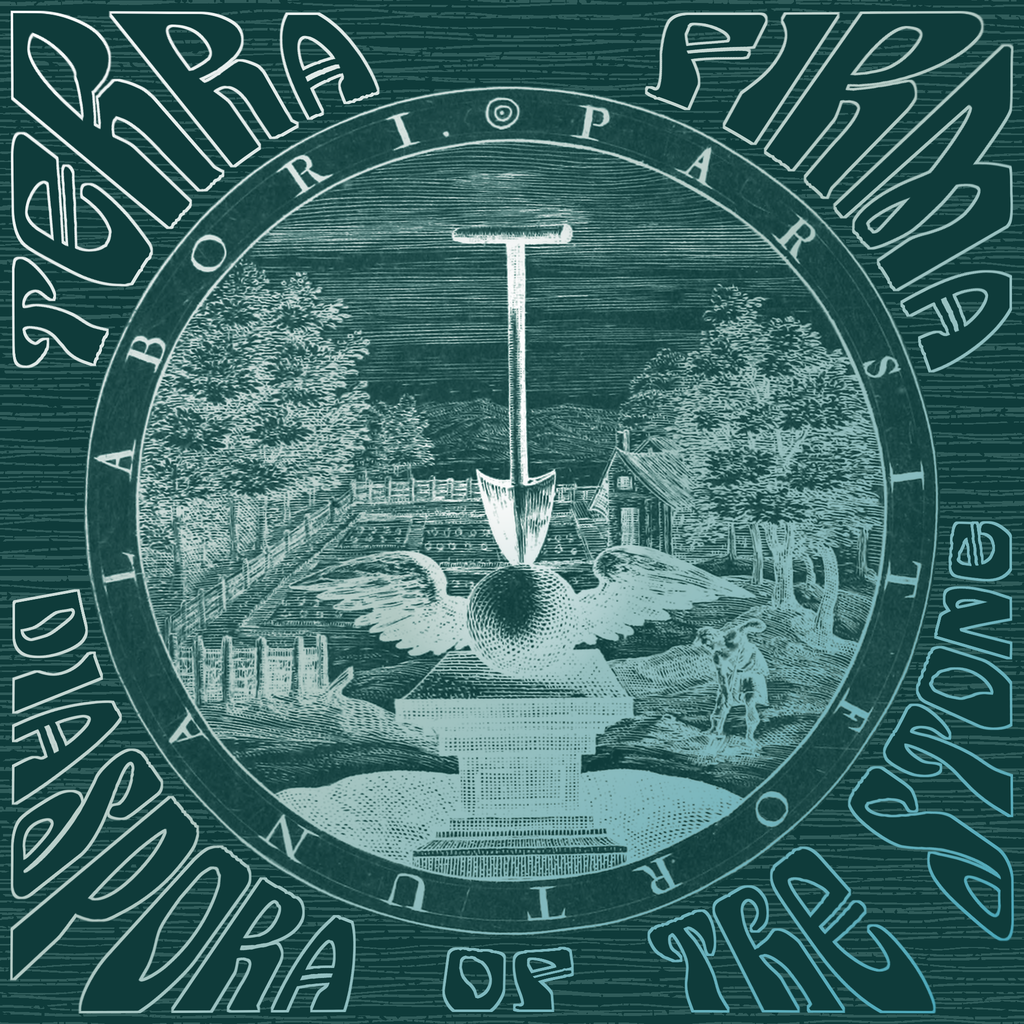
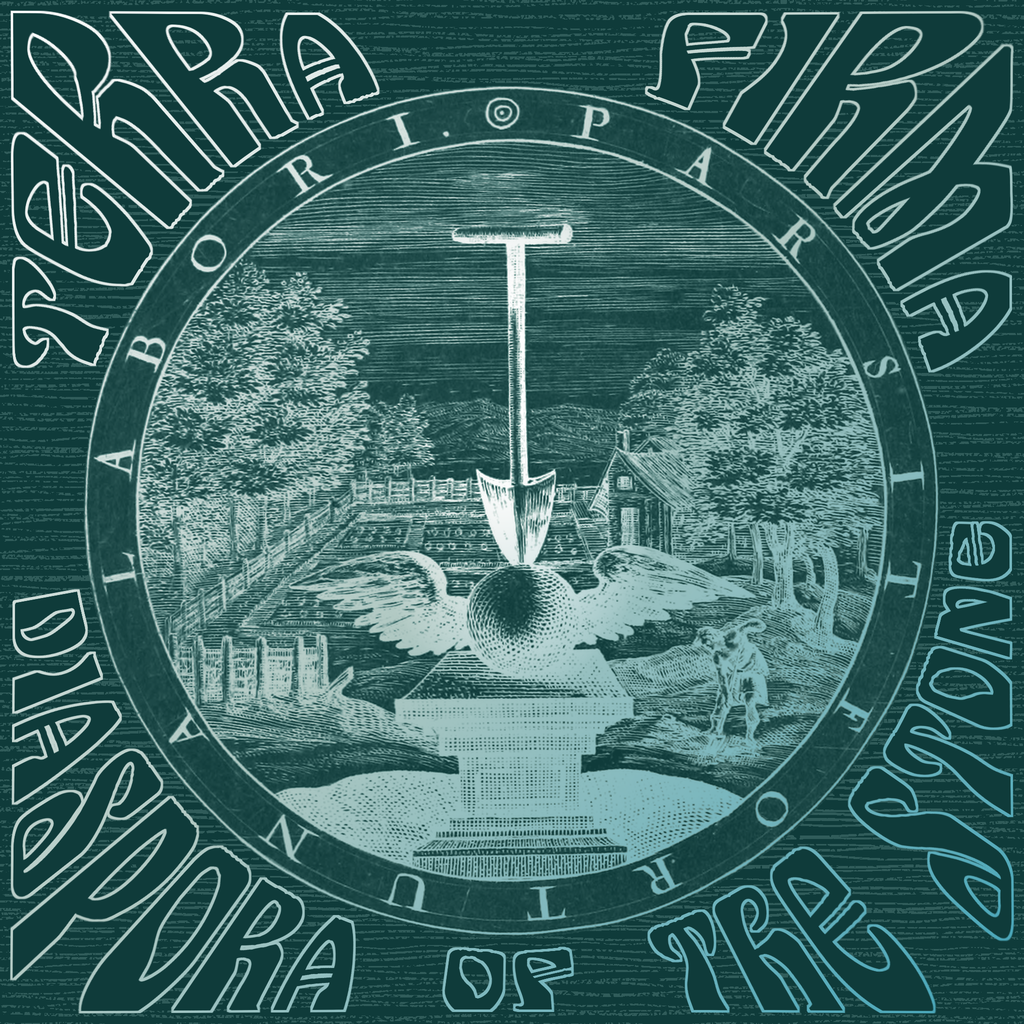
Cover: plate wear on the final, catalogue line from the manifest version
The final preset now runs FIELD_TEX_WEAR at half strength and stamps a
catalogue line ("CL - <version>") on the left edge, in the clear run between
TERRA and DIASPORA; the version is read from TerraFirma/manifest.json at render
time so the cover never goes stale. out/ re-rendered.

Claude-Session: https://claude.ai/code/session_01LP13z2dz12R18hNkC3n4Ta

diff --git a/design/cover/cover.py b/design/cover/cover.py
@@ -63,6 +63,7 @@ LETTER_STEPS=None          # separate band list for the title outlines; None = s
 FIELD_TEXTURE=None         # None, "sky" (the plate's own sky hatching tiled over the field), "hatch" (synthetic engraver's hatch)
 FIELD_TEX_STRENGTH=0.5     # how far the texture lines lift from the field colour toward the mid tone
 FIELD_TEX_IN_LETTERS=True  # texture shows through the hollow letters too
+CATALOGUE=None             # catalogue line on the left edge, e.g. "TF {version}"; {version} is read from TerraFirma/manifest.json at render time
 FIELD_TEX_WEAR=0.0         # plate wear: the field hatch thins and breaks toward the frame edge (0 = off, 1 = heavy)
 SHADOW_MID=None            # shadow pass on the halftone: None, "all" (every hatched midtone goes to SHADOW_MID_COLOUR), "split" (only on the shadow side of the light), "blend" (fades in toward the shadow side)
 SHADOW_MID_COLOUR="c"
@@ -204,6 +205,7 @@ def build():
     o=(N-D*SS)//2; reg=cv[o:o+D*SS,o:o+D*SS]; cv[o:o+D*SS,o:o+D*SS]=reg*(1-sa)+srgb*sa
     A=np.zeros((N,N))
     for w,deg,bi in WORDS: A=np.maximum(A,warp(w,np.radians(deg),np.radians(spans[w]),D*SS/2,bi))
+    global LAST_LETTERS; LAST_LETTERS=Image.fromarray((A*255).astype(np.uint8)).resize((512,512),Image.LANCZOS)
     kk=2*int(round(EDGE_PX*SS))+1
     dil=np.array(Image.fromarray((A*255).astype(np.uint8)).filter(ImageFilter.MaxFilter(kk)),dtype=float)/255; ea=np.clip(dil-A,0,1)
     if EDGE_BREAKS>0:
@@ -235,9 +237,9 @@ PRESETS={
  # FINAL 2026-10-14 (user: "that's the one i want"): continuous ink drift from white at the upper left through grey to
  # shadow cyan at the lower right, running through the seal, the title and the field alike; hand-ruled hatch over the
  # black field; solid black letters with a grey outline; posterised to the base tones plus eight samples of the drift.
- "final":dict(_COMMON,TINT_STEPS=None,FIELD_TEXTURE="hatch_jitter"),
+ "final":dict(_COMMON,TINT_STEPS=None,FIELD_TEXTURE="hatch_jitter",FIELD_TEX_WEAR=0.5,CATALOGUE="CL - {version}"),
  # earlier bookmark: four stepped inks (Y y C c at half strength, shadow ink full), seams stippled, flat black field, hollow letters.
- "bookmark_A1_stipple":dict(_COMMON,TINT_STEPS=[(0.30,"Y",0.5),(0.52,"y",0.5),(0.80,"C",0.5),(1.0,"c",1.0)],SEAM_SOFT=0.12,LETTER_FILL="k",FIELD_TEX_IN_LETTERS=True),
+ "bookmark_A1_stipple":dict(_COMMON,CATALOGUE=None,TINT_STEPS=[(0.30,"Y",0.5),(0.52,"y",0.5),(0.80,"C",0.5),(1.0,"c",1.0)],SEAM_SOFT=0.12,LETTER_FILL="k",FIELD_TEX_IN_LETTERS=True),
 }
 def apply(preset):
     for k,v in PRESETS[preset].items(): globals()[k]=v
@@ -245,9 +247,31 @@ def palette_for(preset):
     y_=hx(Q["y"])
     if TINT_STEPS: return ["k","K",MID]+[y_+(hx(Q[c])-y_)*k for _,c,k in TINT_STEPS]
     return ["k","K",MID,"Y"]+[tint_top(np.array([t]))[0] for t in np.linspace(0,1,8)]
+def mod_version():
+    import json
+    try: return json.load(open(os.path.join(HERE,"..","..","TerraFirma","manifest.json")))["version"]
+    except Exception: return "?"
+def stamp_catalogue(im):
+    """vertical line in the left-edge gap between TERRA and DIASPORA, reading upward, centred in the spandrel between ring and frame"""
+    if not CATALOGUE: return im
+    text=CATALOGUE.format(version=mod_version()); f=ImageFont.truetype("/usr/share/fonts/truetype/dejavu/DejaVuSansMono.ttf",11)
+    d=ImageDraw.Draw(Image.new("L",(1,1))); bb=d.textbbox((0,0),text,font=f); w,h=bb[2]-bb[0],bb[3]-bb[1]
+    col=tuple(int(v) for v in tint_top(np.array([0.5]))[0])            # the drift's grey, same as the letters' outline at mid-plate
+    t=Image.new("RGBA",(w+2,h+2),(0,0,0,0)); ImageDraw.Draw(t).text((1-bb[0],1-bb[1]),text,font=f,fill=col+(255,)); t=t.rotate(90,expand=True)
+    gap_x=(512-D)//2; x=max(2,gap_x//2-t.size[0]//2)
+    # find the clear run of rows along that strip (no title letters, with 3px of breathing room) nearest the horizontal, and centre in it
+    L=np.array(LAST_LETTERS)[:,max(0,x-3):x+t.size[0]+3]>40; busy=L.any(1); free=~busy
+    runs=[]; start=None
+    for yy_,fr in enumerate(list(free)+[False]):
+        if fr and start is None: start=yy_
+        if not fr and start is not None: runs.append((start,yy_-1)); start=None
+    runs=[r for r in runs if r[1]-r[0]>=t.size[1]] or runs
+    a,b=min(runs,key=lambda r:abs((r[0]+r[1])/2-256)); y=(a+b)//2-t.size[1]//2
+    im=im.copy(); im.paste(t,(x,y),t); return im
 def render_preset(preset, pixel=True):
     apply(preset); m=build(); sm=m.resize((512,512),Image.LANCZOS)
-    return (pix(sm,512,Image.NONE,palette_for(preset)) if pixel else sm), m
+    out=pix(sm,512,Image.NONE,palette_for(preset)) if pixel else sm
+    return stamp_catalogue(out), m
 if __name__=="__main__":
     import sys
     for n in (sys.argv[1:] or list(PRESETS)):
